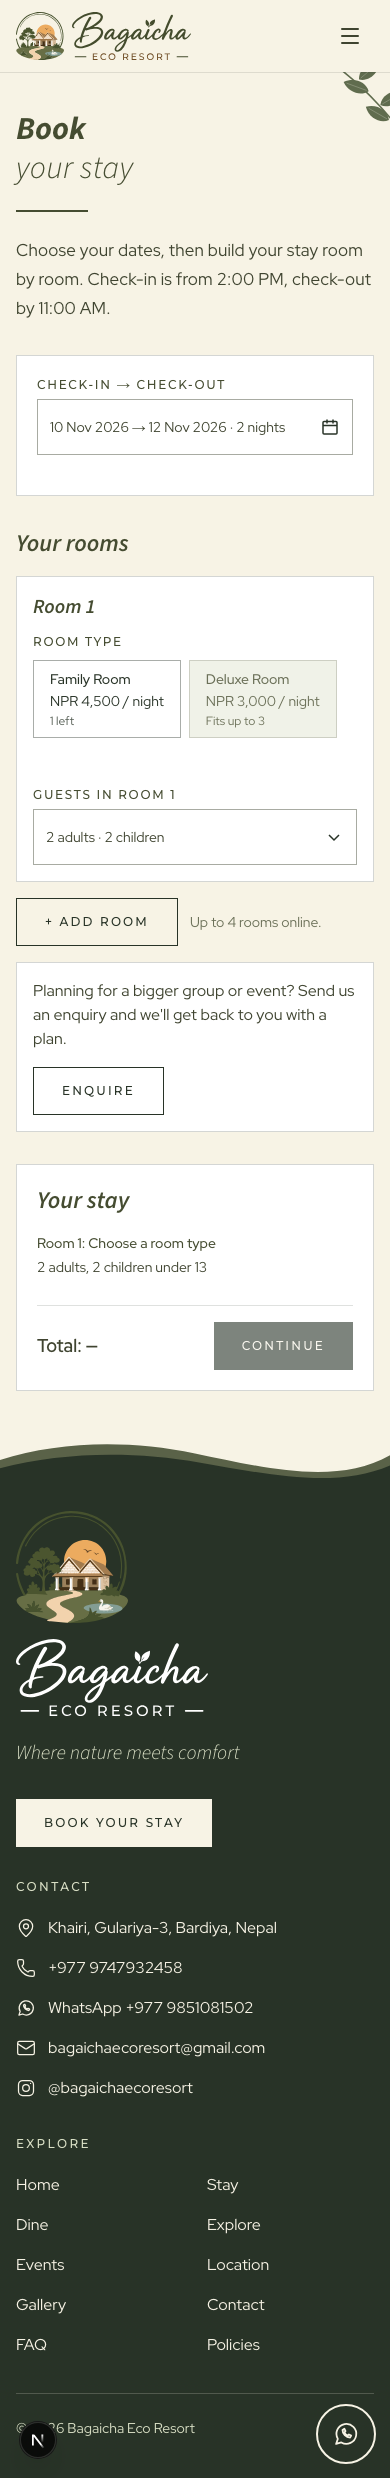
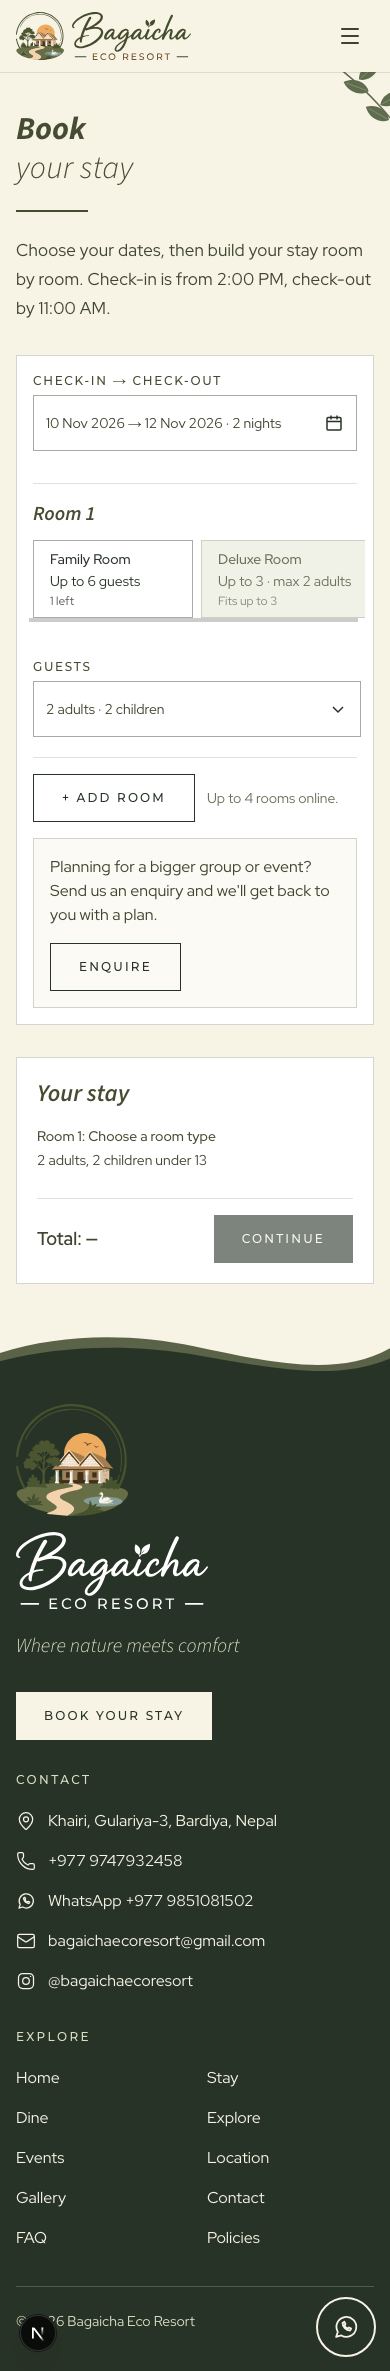
Tighten /book layout: one card, one line per room, capacity on the type buttons, price under the selected type

diff --git a/src/components/booking/room-row.tsx b/src/components/booking/room-row.tsx
@@ -1,8 +1,8 @@
 "use client";
 
 import { RoomGuestsField } from "@/components/booking/room-guests-field";
-import { describeCapacity } from "@/lib/booking/capacity";
-import { typeOption, type BuilderRoom, type BuilderType, type StayFree } from "@/lib/booking/room-builder";
+import { describeCapacityCompact } from "@/lib/booking/capacity";
+import { quoteRooms, typeOption, type BuilderRoom, type BuilderType, type StayFree } from "@/lib/booking/room-builder";
 import { formatNpr } from "@/lib/money";
 
 type Props = {
@@ -10,36 +10,37 @@ type Props = {
   rooms: BuilderRoom[];
   types: BuilderType[];
   free: StayFree;
+  /** Nights of the chosen dates; 0 until both are set. */
+  nights: number;
   childUnderAge: number;
   onChange: (room: BuilderRoom) => void;
   /** Rooms 2 and up can be removed. */
   onRemove?: () => void;
 };
 
-/** One room of the stay: a button per room type (name, price, rooms left) and the room's guests. */
-export function RoomRow({ index, rooms, types, free, childUnderAge, onChange, onRemove }: Props) {
+/** One room of the stay, on one line on desktop: label, a button per room type, guests. Stacked on phones. */
+export function RoomRow({ index, rooms, types, free, nights, childUnderAge, onChange, onRemove }: Props) {
   const room = rooms[index];
   const chosen = types.find((t) => t.slug === room.slug);
   const number = index + 1;
+  const total = chosen && nights > 0 ? quoteRooms([room], new Map([[chosen.slug, chosen]]), nights).totalPriceNpr : null;
 
   return (
-    <li className="border border-forest/20 bg-white p-4 sm:p-5">
-      <div className="flex items-center justify-between gap-3">
-        <h3 id={`room-${number}-heading`} className="font-display text-xl font-semibold italic text-ink-heading">
-          Room {number}
-        </h3>
-        {onRemove && (
-          <button type="button" onClick={onRemove} className="min-h-11 px-1 text-sm text-forest underline underline-offset-4" aria-label={`Remove room ${number}`}>
-            Remove
-          </button>
-        )}
-      </div>
+    <li className="py-5 first:pt-4">
+      <div className="grid gap-x-4 gap-y-3 lg:grid-cols-[4.5rem_minmax(0,1fr)_14rem] lg:items-start">
+        <div className="flex items-center justify-between gap-3 lg:flex-col lg:items-start lg:justify-start lg:gap-0 lg:pt-4">
+          <h3 className="font-display text-xl font-semibold italic text-ink-heading">Room {number}</h3>
+          {onRemove && (
+            <button type="button" onClick={onRemove} className="min-h-11 text-sm text-forest underline underline-offset-4 lg:min-h-8" aria-label={`Remove room ${number}`}>
+              Remove
+            </button>
+          )}
+        </div>
 
-      <div className="mt-3 grid gap-4 lg:grid-cols-[minmax(0,1fr)_16rem] lg:items-start">
         <fieldset>
-          <legend className="mb-1.5 text-sm font-medium text-charcoal">Room type</legend>
+          <legend className="sr-only">Room type for room {number}</legend>
           {/* Wraps on desktop; on phones one scrolling line, so any number of types fits. */}
-          <div className="-mx-1 flex gap-2 overflow-x-auto p-1 sm:flex-wrap sm:overflow-visible">
+          <div className="-m-1 flex gap-2 overflow-x-auto p-1 sm:flex-wrap sm:overflow-visible">
             {types.map((type) => {
               const option = typeOption(rooms, index, type, free);
               const status = option.reason ?? (option.left !== null ? `${option.left} left` : null);
@@ -56,7 +57,7 @@ export function RoomRow({ index, rooms, types, free, childUnderAge, onChange, on
                   />
                   <span
                     className={
-                      "flex min-h-16 min-w-36 flex-col justify-center gap-0.5 border px-4 py-2 font-sans text-sm font-normal normal-case tracking-normal transition-colors " +
+                      "flex min-h-19 min-w-40 flex-col justify-center gap-0.5 border px-4 py-2 font-sans text-sm font-normal normal-case tracking-normal transition-colors " +
                       "peer-focus-visible:outline-2 peer-focus-visible:outline-offset-2 peer-focus-visible:outline-forest " +
                       (option.disabled
                         ? "border-ink/20 bg-sage/40 text-ink-muted"
@@ -64,14 +65,16 @@ export function RoomRow({ index, rooms, types, free, childUnderAge, onChange, on
                     }
                   >
                     <span className="font-medium">{type.name}</span>
-                    <span>{formatNpr(type.basePriceNpr)} / night</span>
-                    {status && <span className={`text-xs ${option.disabled ? "" : "opacity-80"}`}>{status}</span>}
+                    <span>{describeCapacityCompact(type)}</span>
+                    {status && <span className="text-xs opacity-80">{status}</span>}
                   </span>
                 </label>
               );
             })}
           </div>
-          <p className="mt-2 min-h-5 text-sm text-ink-muted">{chosen ? describeCapacity(chosen) : ""}</p>
+          <p className="mt-2 min-h-5 text-sm text-ink-muted">
+            {chosen ? `${formatNpr(chosen.basePriceNpr)} / night${total !== null ? ` · ${nights} ${nights === 1 ? "night" : "nights"}: ${formatNpr(total)}` : ""}` : ""}
+          </p>
         </fieldset>
 
         <RoomGuestsField

diff --git a/src/components/booking/stay-builder.tsx b/src/components/booking/stay-builder.tsx
@@ -96,7 +96,7 @@ export function StayBuilder({ today, childUnderAge, types, initial, free, freeFo
         </p>
       )}
 
-      <div className="border border-forest/20 bg-white p-5">
+      <section className="border border-forest/20 bg-white p-4 sm:p-5" aria-label="Dates and rooms">
         <div className="max-w-xl">
           <DateRangeField
             today={today}
@@ -114,13 +114,8 @@ export function StayBuilder({ today, childUnderAge, types, initial, free, freeFo
             {checking ? "Checking availability…" : ""}
           </p>
         </div>
-      </div>
 
-      <section className="space-y-4" aria-labelledby="rooms-heading">
-        <h2 id="rooms-heading" className="font-display text-2xl font-semibold italic text-ink-heading">
-          Your rooms
-        </h2>
-        <ul className="space-y-4">
+        <ul className="mt-3 divide-y divide-forest/15 border-t border-forest/15">
           {rooms.map((_, i) => (
             <RoomRow
               key={i}
@@ -128,6 +123,7 @@ export function StayBuilder({ today, childUnderAge, types, initial, free, freeFo
               rooms={rooms}
               types={types}
               free={stayFree}
+              nights={nights}
               childUnderAge={childUnderAge}
               onChange={(room) => update(i, room)}
               onRemove={i > 0 ? () => setRooms((all) => all.filter((_, k) => k !== i)) : undefined}
@@ -135,16 +131,14 @@ export function StayBuilder({ today, childUnderAge, types, initial, free, freeFo
           ))}
         </ul>
 
-        <div className="flex flex-wrap items-center gap-3">
+        <div className="flex flex-wrap items-center gap-3 border-t border-forest/15 pb-4 pt-4">
           <Button type="button" variant="brand-outline" size="lg" className="text-forest" disabled={atLimit} onClick={() => setRooms((all) => [...all, { slug: null, ...DEFAULT_PARTY }])}>
             + Add room
           </Button>
           <p className="text-sm text-ink-muted">{atLimit ? `That's the most we take online (${max} rooms).` : `Up to ${max} rooms online.`}</p>
         </div>
 
-        <div
-          className={`flex flex-wrap items-center justify-between gap-4 border p-4 sm:p-5 ${atLimit ? "border-forest bg-sage" : "border-forest/20 bg-white"}`}
-        >
+        <div className={`flex flex-wrap items-center justify-between gap-4 border p-4 ${atLimit ? "border-forest bg-sage" : "border-forest/20 bg-cream/40"}`}>
           <p className="max-w-xl text-ink">Planning for a bigger group or event? Send us an enquiry and we&apos;ll get back to you with a plan.</p>
           <Link href="/enquiry?type=STAY" className={buttonClasses({ variant: atLimit ? "brand" : "brand-outline", size: "lg", className: atLimit ? "" : "text-forest" })}>
             Enquire

diff --git a/src/lib/booking/capacity.test.ts b/src/lib/booking/capacity.test.ts
@@ -1,5 +1,5 @@
 import { describe, expect, it } from "vitest";
-import { capacityErrors, describeCapacity, describeCapacityShort, fittingTypes, partyFits, partyProblem, type Capacity } from "./capacity";
+import { capacityErrors, describeCapacity, describeCapacityCompact, describeCapacityShort, fittingTypes, partyFits, partyProblem, type Capacity } from "./capacity";
 import { validateStay } from "./rules";
 import { computeQuote } from "./pricing";
 import { roomTypeSchema } from "@/app/admin/rooms/schemas";
@@ -61,6 +61,8 @@ describe("labels", () => {
     expect(describeCapacity(family)).toBe("Up to 6 guests");
     expect(describeCapacityShort(deluxe)).toBe("up to 3, max 2 adults");
     expect(describeCapacityShort(family)).toBe("up to 6");
+    expect(describeCapacityCompact(family)).toBe("Up to 6 guests");
+    expect(describeCapacityCompact(deluxe)).toBe("Up to 3 · max 2 adults");
     expect(describeCapacity({ maxGuests: 4, maxAdults: 2, maxChildren: 1 }, { childrenIncluded: true })).toBe(
       "Up to 4 guests, children included, max 2 adults, max 1 child",
     );

diff --git a/src/components/booking/room-guests-field.tsx b/src/components/booking/room-guests-field.tsx
@@ -38,18 +38,19 @@ export function RoomGuestsField({ roomNumber, party, onChange, caps, typeName, c
 
   return (
     <div ref={rootRef} className="relative">
-      <label id={labelId} htmlFor={`${id}-trigger`} className="mb-1.5 block text-sm font-medium text-charcoal">
-        Guests in room {roomNumber}
+      <label id={labelId} htmlFor={`${id}-trigger`} className="mb-1.5 block text-sm font-medium text-charcoal lg:sr-only">
+        Guests
       </label>
       <button
         ref={triggerRef}
         id={`${id}-trigger`}
         type="button"
+        aria-label={`Guests in room ${roomNumber}`}
         aria-haspopup="dialog"
         aria-expanded={open}
         aria-controls={open ? id : undefined}
         onClick={() => setOpen((o) => !o)}
-        className={triggerClasses()}
+        className={`${triggerClasses()} lg:min-h-19!`}
       >
         <span>{guestsSummary(party)}</span>
         <svg aria-hidden="true" viewBox="0 0 20 20" className="size-5 shrink-0 text-forest" fill="none" stroke="currentColor" strokeWidth="1.5">

diff --git a/src/lib/booking/capacity.ts b/src/lib/booking/capacity.ts
@@ -52,6 +52,13 @@ export function describeCapacity(cap: Capacity, options: { childrenIncluded?: bo
   return [total, ...(options.childrenIncluded ? ["children included"] : []), ...rest].join(", ");
 }
 
+/** "Up to 6 guests"; with limits that restrict: "Up to 3 · max 2 adults" (room type buttons). */
+export function describeCapacityCompact(cap: Capacity): string {
+  const [guests, ...rest] = capacityParts(cap);
+  const first = `${guests[0].toUpperCase()}${guests.slice(1)}`;
+  return rest.length === 0 ? `${first} ${cap.maxGuests === 1 ? "guest" : "guests"}` : [first, ...rest].join(" · ");
+}
+
 /** Admin: the limits can't contradict the total. Returns field errors, empty when valid. */
 export function capacityErrors(cap: Capacity): Partial<Record<"maxAdults" | "maxChildren", string>> {
   const errors: Partial<Record<"maxAdults" | "maxChildren", string>> = {};
